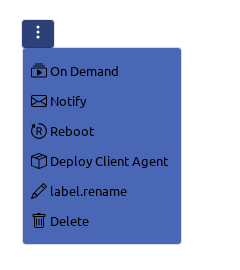
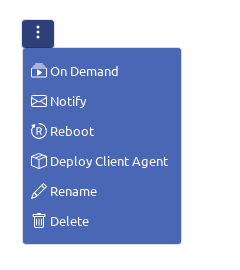
[fix] style and screenshots
Former-commit-id: ecd2798d125fe590eec2f16d57ae77fdf6851421

diff --git a/opsiweb/screenshots4Docs/take_screenshots/config.test.screenshot.js b/opsiweb/screenshots4Docs/take_screenshots/config.test.screenshot.js
@@ -20,6 +20,8 @@ test('Client Configuration', async ({ page }) => {
   await page.evaluate((val) => { document.querySelector('.lastSeen').innerHTML = val }, en['table.fields.lastSeen'])
   await page.evaluate((val) => { document.querySelector('.opsiHostKey').innerHTML = val }, en['table.fields.hostKey'])
   await page.evaluate((val) => { document.querySelector('.oneTimePassword').innerHTML = val }, en['table.fields.otp'])
+  await page.evaluate((val) => { document.querySelector('span.resetButton').innerHTML = val }, en['button.reset'])
+  await page.evaluate((val) => { document.querySelector('span.updateButton').innerHTML = val }, en['button.save'])
   await component.screenshot({ path: './screenshots/en/opsi-webgui_clientconfig.png' })
 
   await page.evaluate((val) => { document.querySelector('.hostattr').innerHTML = val }, de['title.hostattr'])
@@ -32,5 +34,7 @@ test('Client Configuration', async ({ page }) => {
   await page.evaluate((val) => { document.querySelector('.lastSeen').innerHTML = val }, de['table.fields.lastSeen'])
   await page.evaluate((val) => { document.querySelector('.opsiHostKey').innerHTML = val }, de['table.fields.hostKey'])
   await page.evaluate((val) => { document.querySelector('.oneTimePassword').innerHTML = val }, de['table.fields.otp'])
+  await page.evaluate((val) => { document.querySelector('span.resetButton').innerHTML = val }, de['button.reset'])
+  await page.evaluate((val) => { document.querySelector('span.updateButton').innerHTML = val }, de['button.save'])
   await component.screenshot({ path: './screenshots/de/opsi-webgui_clientconfig.png' })
 })

diff --git a/opsiweb/screenshots4Docs/take_screenshots/clientactions.test.screenshot.js b/opsiweb/screenshots4Docs/take_screenshots/clientactions.test.screenshot.js
@@ -20,11 +20,13 @@ test.describe('Client Actions', () => {
     await page.evaluate((val) => { document.querySelector('.showpopup').innerHTML = val }, en['button.event.showpopup'])
     await page.evaluate((val) => { document.querySelector('.reboot').innerHTML = val }, en['button.event.reboot'])
     await page.evaluate((val) => { document.querySelector('.clientagent').innerHTML = val }, en['label.clientagent'])
+    await page.evaluate((val) => { document.querySelector('.rename').innerHTML = val }, en['label.rename'])
     await page.evaluate((val) => { document.querySelector('.clientdeletion').innerHTML = val }, en['label.delete'])
     await page.screenshot({ path: './screenshots/en/opsi-webgui_clientactions.png' })
     await page.evaluate((val) => { document.querySelector('.showpopup').innerHTML = val }, de['button.event.showpopup'])
     await page.evaluate((val) => { document.querySelector('.reboot').innerHTML = val }, de['button.event.reboot'])
     await page.evaluate((val) => { document.querySelector('.clientagent').innerHTML = val }, de['label.clientagent'])
+    await page.evaluate((val) => { document.querySelector('.rename').innerHTML = val }, de['label.rename'])
     await page.evaluate((val) => { document.querySelector('.clientdeletion').innerHTML = val }, de['label.delete'])
     await page.screenshot({ path: './screenshots/de/opsi-webgui_clientactions.png' })
   })

diff --git a/opsiweb/uib-components/components/grid/GHostAttributes.vue b/opsiweb/uib-components/components/grid/GHostAttributes.vue
@@ -36,7 +36,8 @@
       <template #value>
         <div class="float-right">
           <b-button id="resetButton" class="resetButton" variant="primary" size="sm" @click="$fetch">
-            <b-icon :icon="icon.reset" /> {{ $t('button.reset') }}
+            <b-icon :icon="icon.reset" />
+            <span class="resetButton">{{ $t('button.reset') }}</span>
           </b-button>
           <b-button
             id="updateButton"
@@ -46,7 +47,8 @@
             size="sm"
             @click="updateAttributes()"
           >
-            <b-icon :icon="icon.check" /> {{ $t('button.save') }}
+            <b-icon :icon="icon.check" />
+            <span class="updateButton">{{ $t('button.save') }}</span>
           </b-button>
         </div>
       </template>

diff --git a/opsiweb/screenshots4Docs/take_screenshots/clientlogs.test.screenshot.js b/opsiweb/screenshots4Docs/take_screenshots/clientlogs.test.screenshot.js
@@ -2,9 +2,10 @@ const { test } = require('@playwright/test')
 const { callStoryId } = require('../../uib-components/.utils/playwright/pw-story-call')
 const en = require('../../uib-components/locale/en.json')
 const de = require('../../uib-components/locale/de.json')
+
 test('Client Logs', async ({ page }) => {
   await callStoryId(page, 'view-v-clients-log', 'v-clients-log')
-  await page.setViewportSize({ width: 900, height: 510 })
+  // await page.setViewportSize({ width: 1000, height: 510 })
   await (new Promise(resolve => setTimeout(resolve, 1000)))
   await page.evaluate((val) => { document.querySelector('.filter_logs').placeholder = val }, en['form.filter.logs'])
   await page.screenshot({ path: './screenshots/en/opsi-webgui_clientlogs.png' })

diff --git a/opsiweb/uib-components/components/dropdown/DDClientActions.vue b/opsiweb/uib-components/components/dropdown/DDClientActions.vue
@@ -71,7 +71,10 @@ export default class DDClientActions extends Vue {
 }
 </script>
 <style>
-
+.DDClientActions .dropdown-menu .btn,
+.table tr:hover .DDClientActions .dropdown-menu .btn  {
+  color: var(--primary-foreground) !important;
+}
 .row-selected .color-primary-selected,
 .row-selected .color-primary-selected:hover {
   color: var(--primary-foreground) !important;

diff --git a/opsiweb/uib-components/components/modal/MRenameClient.vue b/opsiweb/uib-components/components/modal/MRenameClient.vue
@@ -8,7 +8,7 @@
       :disabled="config?.read_only"
       @click="$bvModal.show('event-modal-rename-' + clientId)"
     >
-      <b-icon :icon="icon.pencil" />  <span> {{ $t('label.rename') }} </span>
+      <b-icon :icon="icon.pencil" />  <span class="rename"> {{ $t('label.rename') }} </span>
     </b-button>
     <div
       v-else

diff --git a/opsiweb/uib-components/components/button/BTNReset.vue b/opsiweb/uib-components/components/button/BTNReset.vue
@@ -10,7 +10,7 @@
     @click="action"
   >
     <span class="sr-only">{{ $t('button.reset') }}</span>
-    <b-icon :icon="icon.reset" /> <span>{{ label? '' : $t('button.reset') }} </span>
+    <b-icon :icon="icon.reset" /> <span class="resetButton">{{ label? '' : $t('button.reset') }} </span>
   </b-button>
 </template>
 

diff --git a/opsiweb/uib-components/components/view/VClientsLog.stories.js b/opsiweb/uib-components/components/view/VClientsLog.stories.js
@@ -7,7 +7,7 @@ export default {
 }
 
 const PrimaryTemplate = () => ({
-  template: '<ViewVClientsLog id="client1" :testdata="mytestdata" />',
+  template: '<ViewVClientsLog id="client1" :testdata="mytestdata" :as-child="false" />',
   computed: {
     mytestdata () {
       return ['null',
